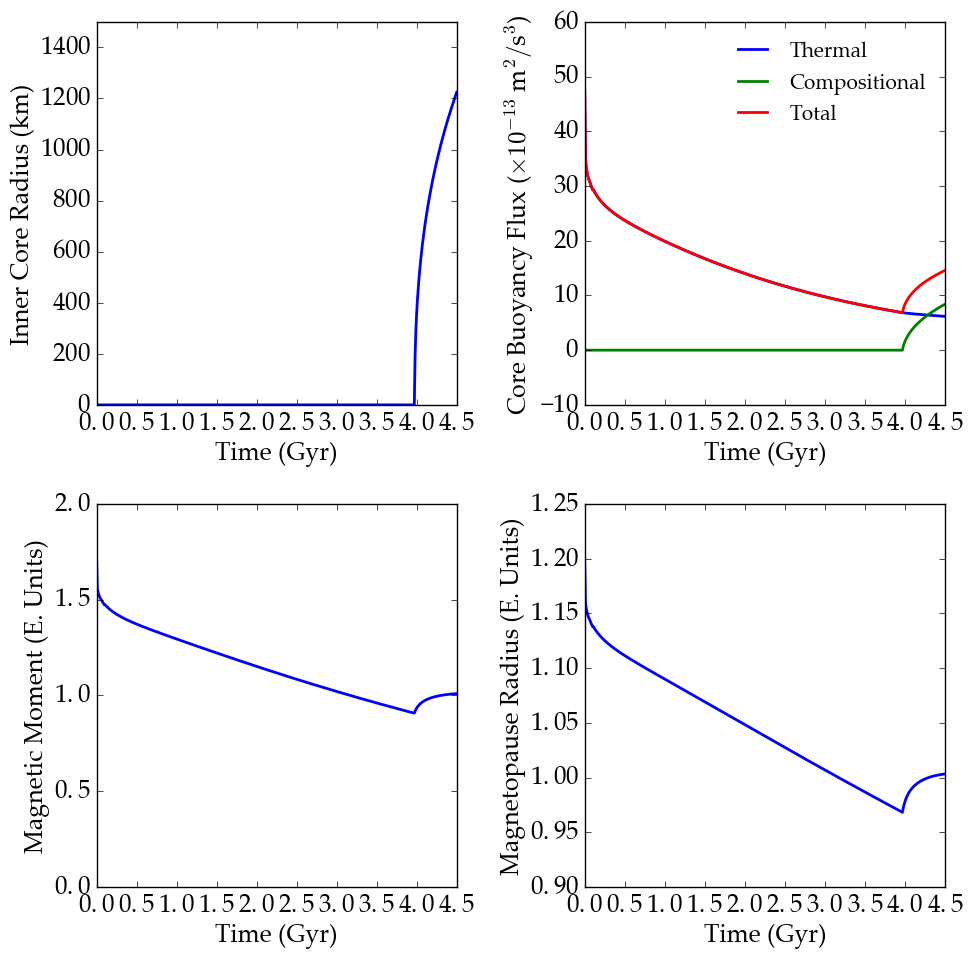
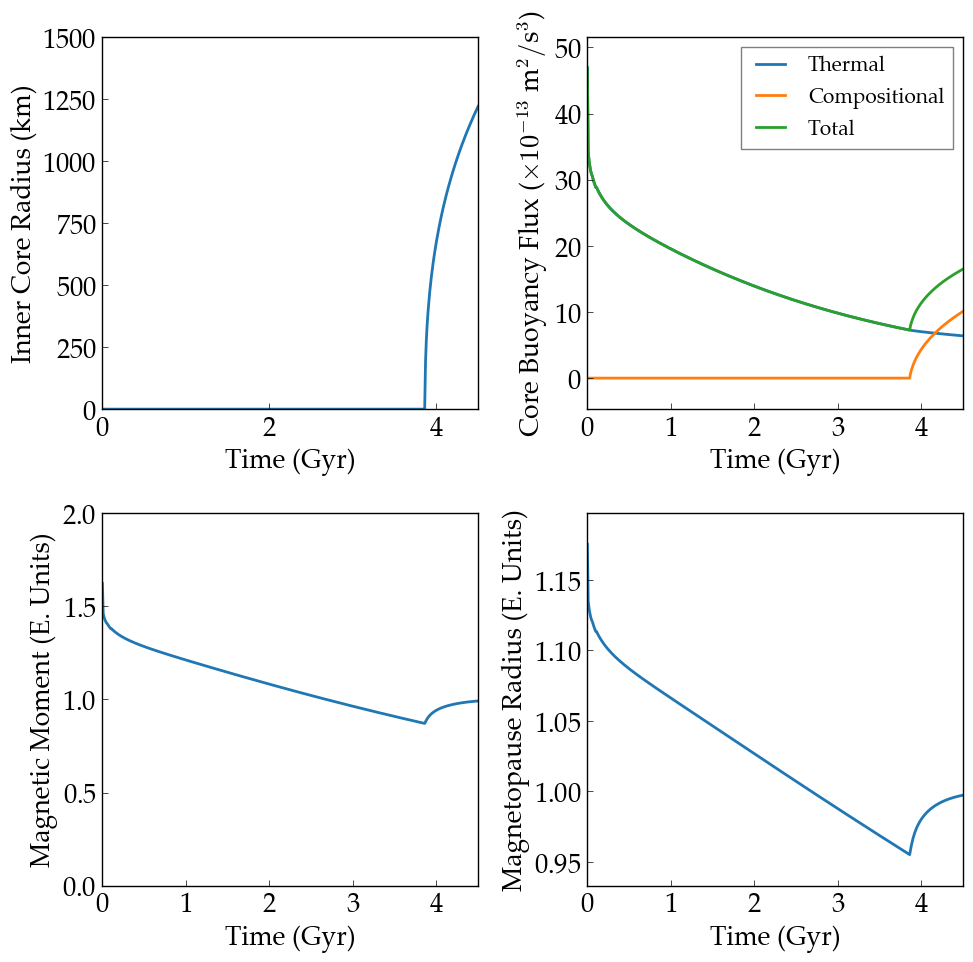
Tidied up EarthInterior plots.

diff --git a/examples/EarthInterior/makeplot.py b/examples/EarthInterior/makeplot.py
@@ -5,7 +5,8 @@ import vplot
 import scipy.signal as sig
 #plt.rcParams["text.usetex"]=True
 #plt.rcParams["text.latex.unicode"]=True
-plt.rcParams.update({'font.size':15,'legend.fontsize':15})
+plt.rcParams.update({'font.size':16,'legend.fontsize':15})
+
 import sys
 
 # Check correct number of arguments
@@ -20,7 +21,7 @@ if (sys.argv[1] != 'pdf' and sys.argv[1] != 'png'):
 
 out = vplot.GetOutput()
 # Print final state
-print('Final: t=%.3f TUMan=%f TMan=%f TCMB=%f TCore=%f HflowUMan=%.1f HflowCMB=%.1f RadPowerTotal=%f RadPowerMan=%.1f RadPowerCore=%.1f MagMom=%f RIC=%f'%(out.earth.Time[-1],out.earth.TUMan[-1],out.earth.TMan[-1],out.earth.TCMB[-1],out.earth.TCore[-1],out.earth.HflowUMan[-1],out.earth.HflowCMB[-1],out.earth.RadPowerTotal[-1],out.earth.RadPowerMan[-1],out.earth.RadPowerCore[-1],out.earth.MagMom[-1],out.earth.RIC[-1]))
+#print('Final: t=%.3f TUMan=%f TMan=%f TCMB=%f TCore=%f HflowUMan=%.1f HflowCMB=%.1f RadPowerTotal=%f RadPowerMan=%.1f RadPowerCore=%.1f MagMom=%f RIC=%f'%(out.earth.Time[-1],out.earth.TUMan[-1],out.earth.TMan[-1],out.earth.TCMB[-1],out.earth.TCore[-1],out.earth.HflowUMan[-1],out.earth.HflowCMB[-1],out.earth.RadPowerTotal[-1],out.earth.RadPowerMan[-1],out.earth.RadPowerCore[-1],out.earth.MagMom[-1],out.earth.RIC[-1]))
 
 # Plots
 rows=3
@@ -35,46 +36,52 @@ plt.plot(out.earth.Time,out.earth.TUMan,color=vplot.colors.orange,linestyle='-',
 plt.plot(out.earth.Time,out.earth.TLMan,color=vplot.colors.pale_blue,linestyle='-',label=r'$T_{LM}$')
 plt.plot(out.earth.Time,out.earth.TCMB,color=vplot.colors.purple,linestyle='-',label=r'$T_{CMB}$')
 plt.plot(out.earth.Time,out.earth.TCore,'k-',label=r'$T_{C}$')
-plt.legend(loc='best',ncol=2,frameon=False,columnspacing=1)
+plt.legend(loc='best',ncol=2,frameon=True,columnspacing=1)
 plt.ylabel('Temperature (K)')
 plt.xlabel('Time (Gyr)')
 plt.ylim(0,10000)
+plt.xticks([0,1,2,3,4])
 panel += 1
 plt.subplot(rows,cols,panel)
 plt.plot(out.earth.Time,out.earth.HflowUMan,color=vplot.colors.red,linestyle='-',label=r'$Q_{UMan}$')
 plt.plot(out.earth.Time,out.earth.HflowCMB,color=vplot.colors.orange,linestyle='-',label=r'$Q_{CMB}$')
 plt.plot(out.earth.Time,out.earth.RadPowerMan,color=vplot.colors.pale_blue,linestyle='-',label=r'$Q_{Rad,Man}$')
 plt.plot(out.earth.Time,out.earth.RadPowerCore,'k-',label=r'$Q_{Rad,Core}$')
-plt.legend(loc='best',frameon=False)
+plt.legend(loc='best',frameon=True)
 plt.ylabel('Heat Flow (TW)')
 plt.xlabel('Time (Gyr)')
 plt.ylim(0,150)
+plt.xticks([0,1,2,3,4])
 panel += 1
 plt.subplot(rows,cols,panel)
 plt.plot(out.earth.Time,out.earth.BLUMan,label=r'$\delta_{UM}$')
 plt.plot(out.earth.Time,out.earth.BLLMan,label=r'$\delta_{LM}$')
-plt.legend(loc='best',frameon=False)
+plt.legend(loc='best',frameon=True)
 plt.ylabel(r'Boundary Layer Depths (km)')
 plt.xlabel('Time (Gyr)')
+plt.xticks([0,1,2,3,4])
 panel += 1
 plt.subplot(rows,cols,panel)
 plt.semilogy(out.earth.Time,out.earth.ViscUMan,label=r'$\nu_{UM}$')
 plt.semilogy(out.earth.Time,out.earth.ViscLMan,label=r'$\nu_{LM}$')
-plt.legend(loc='best',frameon=False)
+plt.legend(loc='best',frameon=True)
 plt.ylabel(r'Mantle Viscosity ($m^2s^{-1}$)')
 plt.xlabel('Time (Gyr)')
 plt.ylim(1e12,1e19)
+plt.xticks([0,1,2,3,4])
 panel += 1
 plt.subplot(rows,cols,panel)
 plt.plot(out.earth.Time,out.earth.FMeltUMan)
 plt.ylabel(r'Melt Fraction Upper Mantle (n.d.)')
 plt.xlabel('Time (Gyr)')
+plt.xticks([0,1,2,3,4])
 panel += 1
 plt.subplot(rows,cols,panel)
 plt.plot(out.earth.Time,out.earth.MeltMassFluxMan*1e-6)
 plt.ylabel(r'Melt Mass Flux Mantle ($\times 10^6$ kg$/$s)')
 plt.xlabel('Time (Gyr)')
 plt.ylim(0,100)
+plt.xticks([0,1,2,3,4])
 
 vplot.make_pretty(fig)
 if (sys.argv[1] == 'pdf'):
@@ -97,20 +104,23 @@ plt.subplot(rows,cols,panel)
 plt.plot(out.earth.Time,out.earth.CoreBuoyTherm*1e13,label='Thermal')
 plt.plot(out.earth.Time,out.earth.CoreBuoyCompo*1e13,label='Compositional')
 plt.plot(out.earth.Time,out.earth.CoreBuoyTotal*1e13,label='Total')
-plt.legend(loc='best',frameon=False)
+plt.legend(loc='best',frameon=True)
 plt.ylabel(r'Core Buoyancy Flux ($\times10^{-13}$ m$^2/$s$^3$)')
 plt.xlabel('Time (Gyr)')
+plt.xticks([0,1,2,3,4])
 panel += 1
 plt.subplot(rows,cols,panel)
 plt.plot(out.earth.Time,out.earth.MagMom,label='MagMom')
 plt.ylim(0,2)
 plt.ylabel('Magnetic Moment (E. Units)')
 plt.xlabel('Time (Gyr)')
+plt.xticks([0,1,2,3,4])
 panel += 1
 plt.subplot(rows,cols,panel)
 plt.plot(out.earth.Time,out.earth.MagPauseRad)
 plt.ylabel(r'Magnetopause Radius (E. Units)')
 plt.xlabel('Time (Gyr)')
+plt.xticks([0,1,2,3,4])
 #panel += 1
 #plt.subplot(rows,cols,panel)
 #plt.plot(out.earth.Time,out.earth.ChiOC,label='ChiOC')
